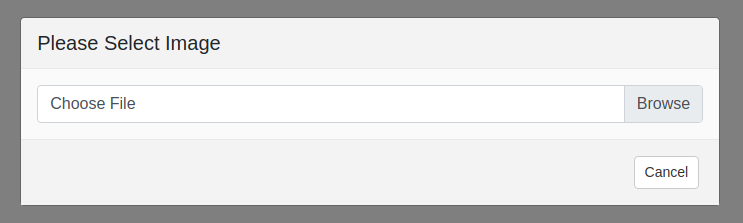
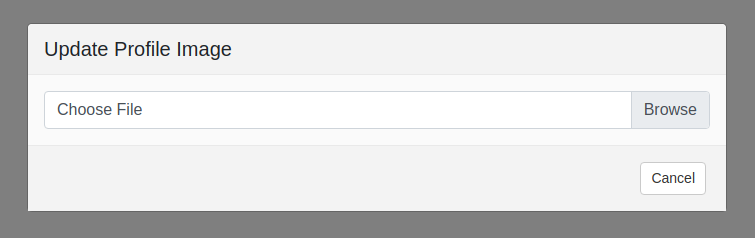
end-to-end tested

Changed region(s): [[0.0, 0.0538, 0.9906, 0.9417], [0.8358, 0.4305, 0.9287, 0.5112]]

diff --git a/src/image-clipper.js b/src/image-clipper.js
@@ -1,5 +1,6 @@
 import $ from "jquery";
 import "bootstrap";
+import b64ToBlob from "b64-to-blob"
 
 import "./css/image-clipper.scss";
 import "./css/fonts.css";
@@ -12,7 +13,7 @@ var $box = $(
     '<div class="modal-dialog">' +
       '<div class="modal-content">' +
         '<div class="modal-header">' +
-          '<h5 class="modal-title">Please Select Image</h5>' +
+          '<h5 class="modal-title"></h5>' +
         '</div>' +
         '<div class="modal-body">' +
           '<div class="input-group">' +
@@ -37,23 +38,34 @@ var $box = $(
   '</div>'
 );
 
-function ImageClipper(task) {
+function ImageClipper(title, task) {
+  if (Object.prototype.toString.call(title) === "[object String]") {
+    this.title = title;
+    this.task = task || (function() {});
+  } else if (Object.prototype.toString.call(title) === "[object Function]") {
+    this.title = "Please Select Image";
+    this.task = title;
+  } else {
+    this.title = "Please Select Image";
+    this.task = (function() {});
+  }
+
   this.box = $box;
-  this.task = task || (function() {});
   this.initialized = false;
 }
 
 ImageClipper.prototype.open = function() {
   this.box.modal("show");
-  this.Init();
+
+  if (!this.initialized) {
+    this.Init();
+    this.initialized = true;
+  }
 }
 
 ImageClipper.prototype.Init = function() {
-  if (this.initialized) {
-    return;
-  }
-
   var $title = $box.find(".modal-title");
+  $title.html(this.title || "Please Select Image");
 
   // Input form.
   var $form = $box.find(".input-group");
@@ -65,17 +77,7 @@ ImageClipper.prototype.Init = function() {
   var $submitBtn = $box.find("button.btn-submit");
   var $errMsg = $box.find("div.err-msg");
 
-  $cancelBtn.click(function() {
-    $box.modal("hide");
-    resetAll();
-  });
-
   var me = this;
-  $submitBtn.click(function() {
-    me.task();
-    $box.modal("hide");
-    resetAll();
-  });
 
   function resetAll() {
     image = null;
@@ -93,7 +95,7 @@ ImageClipper.prototype.Init = function() {
     $submitBtn.hide();
     $errMsg.html(null).hide();
 
-    $title.html("Please Select Image");
+    $title.html(me.title || "Please Select Image");
     $inputLabel.html("Choose File");
 
     // Clear canvases
@@ -106,9 +108,37 @@ ImageClipper.prototype.Init = function() {
     $input.val(null);
   }
 
-  // ------------------------------------------------------------------------ //
-  // ------------------------ Clip Image with Canvas ------------------------ //
-  // ------------------------------------------------------------------------ //
+  $cancelBtn.click(function() {
+    $box.modal("hide");
+    resetAll();
+  });
+
+  $submitBtn.click(function() {
+    // Get clipped image data and put it into a fresh new canvas with exactly
+    // the size of clip area.
+    var imageData = contextClip.getImageData(clipStartX, clipStartY,
+                                             clipLength, clipLength);
+
+    var canvas = document.createElement("canvas");
+    // Make some fine adjustment for sizes and painting offset to remove
+    // boundary white space.
+    canvas.width = clipLength - 1;
+    canvas.height = clipLength - 1;
+    var ctx = canvas.getContext("2d");
+    ctx.putImageData(imageData, -1, -1);
+
+    var data = canvas.toDataURL();
+    // Convert base64 data to bytes.
+    var blob = b64ToBlob(data.split(",")[1], "image/png");
+    me.task($input.val(), blob);
+
+    $box.modal("hide");
+    resetAll();
+  });
+
+  // ---------------------------------------------------------------------- //
+  // ------------------------ Clip Image with Canvas ---------------------- //
+  // ---------------------------------------------------------------------- //
   // Canvases.
   var $canvasContainer = $box.find(".canvas-container");
 

diff --git a/src/app.js b/src/app.js
@@ -3,9 +3,15 @@ import 'bootstrap/dist/css/bootstrap.min.css';
 
 import ImageClipper from "./image-clipper.js"
 
-var clipper = new ImageClipper(function(data) {
+var clipper = new ImageClipper("Update Profile Image", callback);
+
+function callback(blob) {
+  // Do something with the image blob.
+  // e.g. send an AJAX to upload the image.
+  // ...
+
   console.log("image submitted");
-});
+}
 
 $("#upload-image").click(function() {
   clipper.open();

diff --git a/build/webpack.prod.conf.js b/build/webpack.prod.conf.js
@@ -7,7 +7,7 @@ const baseWebpackConfig = require('./webpack.base.conf');
 
 exports.default = merge(baseWebpackConfig, {
   entry: {
-    immage-clipper: './src/immage-clipper.js',
+    "image-clipper": './src/image-clipper.js',
   },
 
   output: {

diff --git a/src/css/image-clipper.scss b/src/css/image-clipper.scss
@@ -40,6 +40,10 @@ div.image-clipper-box {
           left: 0px;
           top: 0px;
         }
+
+        canvas.clip-upload {
+          display: none;
+        }
       }
     } /* modal-body */
 

diff --git a/README.md b/README.md
@@ -11,18 +11,20 @@ An image clipper tool built with HTML5 `canvas` and BootStrap `Modal` component.
 import 'bootstrap/dist/css/bootstrap.min.css';
 import ImageClipper from "./image-clipper.js"
 
-var clipper = new ImageClipper(function(data) {
-  // Do something with the image data.
-  // e.g. send an AJAX to server.
+var clipper = new ImageClipper("Update Profile Image", callback);
+
+function callback(blob) {
+  // Do something with the image blob.
+  // e.g. send an AJAX to upload the image.
   // ...
 
   console.log("image submitted");
-});
+}
 
 clipper.open();
 ```
-`ImageClipper` constructor should be passed in a callback which takes an argument`data`, which is the png formmat data of the selected image area. Once`submit` button is clicked, this callback will be executed. Typically this callback should make an user-defined AJAX call to backend server.
+`ImageClipper` constructor should be passed in a callback which takes an argument`blob`, which is the png formmat data of the selected image area. Once`submit` button is clicked, this callback will be executed. Typically this callback should make an user-defined AJAX call to backend server.
 
-Call `clipper.open()`, and a popup dialog will show to select image file.
+Call `clipper.open()`, and a popup dialog will show to select image file. The box title is set by the first argument of `ImmageClipper` constructor, which is "Update Profile Image" in the above example code.
 
 <img src="https://raw.githubusercontent.com/yuanhang3260/Image-Clipper/master/samples/select.png" alt="example2" width="550px"/>
